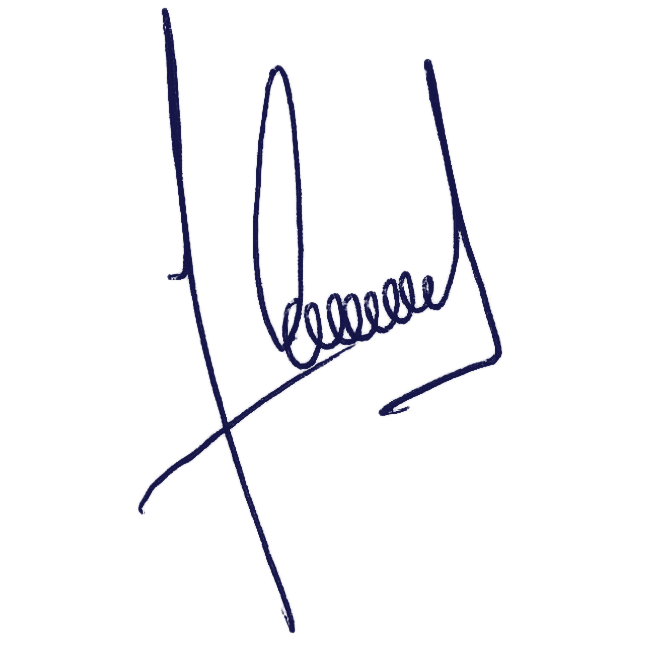
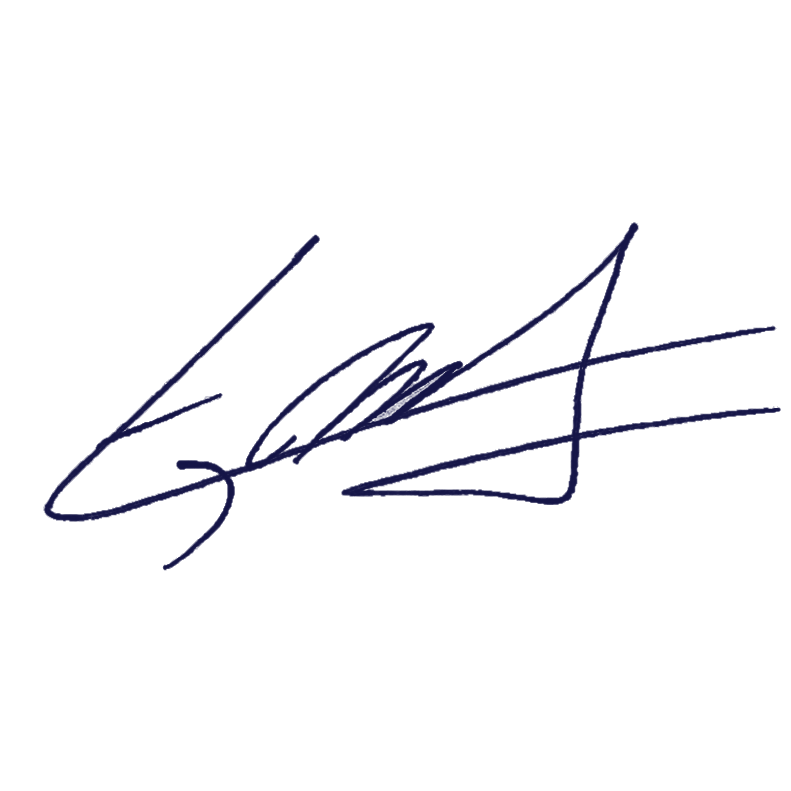
little fix

Changed region(s): [[0.1207, 0.0, 0.9955, 0.9668], [0.0603, 0.6042, 0.181, 0.6647], [0.0905, 0.574, 0.1207, 0.6042]]

diff --git a/src/modules/proveedores-salud/proveedores-salud.service.ts b/src/modules/proveedores-salud/proveedores-salud.service.ts
@@ -67,11 +67,16 @@ export class ProveedoresSaludService {
   ) {}
 
   /**
-   * Validate régimen regulatorio according to business rules
+   * Validate régimen regulatorio according to business rules.
+   * La declaración de contexto operativo solo es obligatoria en create/onboarding
+   * (requireDeclaracionOperativa = true), no al editar el perfil.
    */
   private validateRegimenRegulatorio(
     dto: CreateProveedoresSaludDto | any,
+    options: { requireDeclaracionOperativa?: boolean } = {},
   ): void {
+    const requireDeclaracionOperativa =
+      options.requireDeclaracionOperativa ?? true;
     const pais = dto.pais?.trim().toUpperCase();
     const isMX = pais === 'MX';
     let regimen = dto.regimenRegulatorio;
@@ -100,8 +105,9 @@ export class ProveedoresSaludService {
       dto.regimenRegulatorio = 'SIN_REGIMEN';
     }
 
-    // Regla 3: Si es México y régimen es SIN_REGIMEN, declaración es obligatoria
+    // Regla 3: Declaración de contexto operativo solo en onboarding/create
     if (
+      requireDeclaracionOperativa &&
       isMX &&
       (regimen === 'SIN_REGIMEN' || dto.regimenRegulatorio === 'SIN_REGIMEN')
     ) {
@@ -283,7 +289,10 @@ export class ProveedoresSaludService {
             ? normalizedDto.declaracionAceptada
             : proveedor.declaracionAceptada,
       };
-      this.validateRegimenRegulatorio(dtoToValidate);
+      // En update/perfil no exigir declaración (solo aplica en onboarding/create)
+      this.validateRegimenRegulatorio(dtoToValidate, {
+        requireDeclaracionOperativa: false,
+      });
 
       // Normalizar valores antiguos a nuevo formato
       if (dtoToValidate.regimenRegulatorio === 'NO_SUJETO_SIRES') {

diff --git a/CHANGELOG.md b/CHANGELOG.md
@@ -18,7 +18,7 @@ Registro de cambios del proyecto. Este documento cumple con la política de cont
 
 | VERSIÓN | FECHA      | DESCRIPCIÓN GENERAL                                                                                                                                                                                                                                                                                                                                                                       | TIPO              |
 | ------- | ---------- | ----------------------------------------------------------------------------------------------------------------------------------------------------------------------------------------------------------------------------------------------------------------------------------------------------------------------------------------------------------------------------------------- | ----------------- |
-| v1.0.3  | Pendiente  | Parche en preparación. Incluye auditoría y gate SIRES en eliminación de Empresa/Centro de Trabajo, corrección del AuditTrail GIIS, gate y modal de exportación Excel de trabajadores (`gestionarTrabajadores`, selección de columnas), alineación UI de acciones de documento al permiso por tipo, y derechohabiencia/afiliación dinámica desde catálogo AFILIACION en nota médica SIRES. | Parche            |
+| v1.0.3  | Pendiente  | Parche en preparación. Incluye auditoría y gate SIRES en eliminación de Empresa/Centro de Trabajo, corrección del AuditTrail GIIS, gate y modal de exportación Excel de trabajadores (`gestionarTrabajadores`, selección de columnas), alineación UI de acciones de documento al permiso por tipo, derechohabiencia/afiliación dinámica desde catálogo AFILIACION en nota médica SIRES, y stepper por secciones (V2) como flujo principal de captura en documentos clínicos. | Parche            |
 | v1.0.2  | 2026-07-10 | Parche de correcciones y mejoras de UX: tratamiento unificado de logotipos y firmas, vista previa de expediente al hover en tabla de trabajadores, perfil de proveedor, usuarios fuera de México, auditoría, soporte de modo oscuro en componentes, CLUES 9998, transferencia de trabajadores, importación de trabajadores, audiometría AMA y estabilidad de PDFs.                        | Parche            |
 | v1.0.1  | 2026-06-25 | Parche de mejoras identificadas durante la elaboración de TEC-001, TEC-002 y TEC-003 (seguridad, confidencialidad, consentimiento, auditoría).                                                                                                                                                                                                                                            | Parche            |
 | v1.0.0  | 2026-06-07 | Primera versión candidata a certificación NOM-024-SSA3-2012. Primera versión oficial con trazabilidad regulatoria. Desarrollo acumulado en rama `nom024`.                                                                                                                                                                                                                                 | Mayor             |
@@ -140,9 +140,9 @@ El registro se conserva en archivo interno de control de versiones.
 
 | Campo                           | Valor                                                                                                                                                                                                                                                                                                                                                                                                                                                                                                                                                                                                                                                                                                                                                                                                                                                                                                                                                                                                                                                                                                                                                                                                                                                                                                                                                                                                                                                                                                                                       |
 | ------------------------------- | ------------------------------------------------------------------------------------------------------------------------------------------------------------------------------------------------------------------------------------------------------------------------------------------------------------------------------------------------------------------------------------------------------------------------------------------------------------------------------------------------------------------------------------------------------------------------------------------------------------------------------------------------------------------------------------------------------------------------------------------------------------------------------------------------------------------------------------------------------------------------------------------------------------------------------------------------------------------------------------------------------------------------------------------------------------------------------------------------------------------------------------------------------------------------------------------------------------------------------------------------------------------------------------------------------------------------------------------------------------------------------------------------------------------------------------------------------------------------------------------------------------------------------------------- |
-| **Descripción**                 | Parche de la línea **v1.0** en preparación (vigente sigue en v1.0.2). **(1) Eliminación de Empresa/Centro (frontend/backend):** AuditTrail de UPDATE/DELETE y de reauth fallida; en SIRES se bloquea el borrado si hay documentos FINALIZADO/ANULADO. **(2) AuditTrail GIIS (frontend/backend):** se emite `GIIS_EXPORT_FILE_GENERATED` al completar el batch y `GIIS_EXPORT_DOWNLOADED` al descargar; se retiran `STARTED` y `VALIDATION_EXECUTED`. **(3) Exportación Excel de trabajadores (frontend/backend):** sin permiso `gestionarTrabajadores` no se exporta; gate en UI y rechazo en endpoints de export/auditoría; modal de confirmación con presets (Básico/Clínico/Identificación), columnas condicionadas por régimen, ocultar opciones 100% vacías por defecto (toggle para mostrarlas), anchos y encabezado congelado en el `.xlsx`; auditoría `WORKERS_EXPORT_EXCEL` con `columnKeys`/`columnCount`/`showEmptyColumns`. **(4) Acciones de documento en expediente (frontend):** Finalizar/Editar/Anular/Eliminar condicionados al permiso del tipo (`canCreateDocument`, misma matriz que el backend); Ver habilitado en documentos inmutables sin exigir gestionar; tamaño uniforme de botones de acción. **(5) Afiliación / derechohabiencia (frontend/backend):** Step3 de nota médica SIRES carga opciones vigentes de `cat_afiliacion`; exclusividad por etiqueta (`NO ESPECIFICADO` / `NINGUNA` / `SE IGNORA`); labels dinámicos en visualizador/PDF; validación de códigos al persistir; CEX sin cambio de contrato. |
+| **Descripción**                 | Parche de la línea **v1.0** en preparación (vigente sigue en v1.0.2). **(1) Eliminación de Empresa/Centro (frontend/backend):** AuditTrail de UPDATE/DELETE y de reauth fallida; en SIRES se bloquea el borrado si hay documentos FINALIZADO/ANULADO. **(2) AuditTrail GIIS (frontend/backend):** se emite `GIIS_EXPORT_FILE_GENERATED` al completar el batch y `GIIS_EXPORT_DOWNLOADED` al descargar; se retiran `STARTED` y `VALIDATION_EXECUTED`. **(3) Exportación Excel de trabajadores (frontend/backend):** sin permiso `gestionarTrabajadores` no se exporta; gate en UI y rechazo en endpoints de export/auditoría; modal de confirmación con presets (Básico/Clínico/Identificación), columnas condicionadas por régimen, ocultar opciones 100% vacías por defecto (toggle para mostrarlas), anchos y encabezado congelado en el `.xlsx`; auditoría `WORKERS_EXPORT_EXCEL` con `columnKeys`/`columnCount`/`showEmptyColumns`. **(4) Acciones de documento en expediente (frontend):** Finalizar/Editar/Anular/Eliminar condicionados al permiso del tipo (`canCreateDocument`, misma matriz que el backend); Ver habilitado en documentos inmutables sin exigir gestionar; tamaño uniforme de botones de acción. **(5) Afiliación / derechohabiencia (frontend/backend):** Step3 de nota médica SIRES carga opciones vigentes de `cat_afiliacion`; exclusividad por etiqueta (`NO ESPECIFICADO` / `NINGUNA` / `SE IGNORA`); labels dinámicos en visualizador/PDF; validación de códigos al persistir; CEX sin cambio de contrato. **(6) Stepper por secciones V2 (frontend):** captura de HC, EF, aptitud, antidoping, certificado, HO, PE y nota médica agrupada por secciones scrolleables (mismo contrato de campos/API/PDF/GIIS); V2 como flujo principal sin variables de entorno; kill-switch temporal al legacy vía query (`?*Legacy=1`). |
 | **Tipo de cambio**              | Parche                                                                                                                                                                                                                                                                                                                                                                                                                                                                                                                                                                                                                                                                                                                                                                                                                                                                                                                                                                                                                                                                                                                                                                                                                                                                                                                                                                                                                                                                                                                                      |
-| **Evidencia de pruebas**        | Specs `*.org-delete.spec.ts`, `deletion-password.guard.spec.ts`, `deletion-cascade.service.spec.ts`, `audit-trail.nom024.spec.ts`, `trabajadores.controller.export.spec.ts`, `DocumentoItem.permission-gates.spec.ts`, `exportarTrabajadoresColumnas.spec.ts`, `afiliacionCex.spec.ts`; UAT manual del gate SIRES, reautenticación, exportación GIIS, export Excel (permiso, modal/columnas/regimen), acciones de documento por rol (Técnico/Médico) y Step3 afiliación vs catálogo (vigencia/remapeo).                                                                                                                                                                                                                                                                                                                                                                                                                                                                                                                                                                                                                                                                                                                                                                                                                                                                                                                                                                                                                                     |
+| **Evidencia de pruebas**        | Specs `*.org-delete.spec.ts`, `deletion-password.guard.spec.ts`, `deletion-cascade.service.spec.ts`, `audit-trail.nom024.spec.ts`, `trabajadores.controller.export.spec.ts`, `DocumentoItem.permission-gates.spec.ts`, `exportarTrabajadoresColumnas.spec.ts`, `afiliacionCex.spec.ts`, `*Sections.spec.ts` (mapeo legacy→sección); UAT manual del gate SIRES, reautenticación, exportación GIIS, export Excel (permiso, modal/columnas/regimen), acciones de documento por rol (Técnico/Médico), Step3 afiliación vs catálogo (vigencia/remapeo) y stepper V2 (navegación/validación/visualizador; kill-switch legacy).                                                                                                                                                                                                                                                                                                                                                                                                                                                                                                                                                                                                                                                                                                                                                                                                                                                                                                                                                                                                                                     |
 | **Resultado de aceptación**     | Pendiente — parche aún no liberado                                                                                                                                                                                                                                                                                                                                                                                                                                                                                                                                                                                                                                                                                                                                                                                                                                                                                                                                                                                                                                                                                                                                                                                                                                                                                                                                                                                                                                                                                                          |
 | **Responsable de autorización** | —                                                                                                                                                                                                                                                                                                                                                                                                                                                                                                                                                                                                                                                                                                                                                                                                                                                                                                                                                                                                                                                                                                                                                                                                                                                                                                                                                                                                                                                                                                                                           |
 
